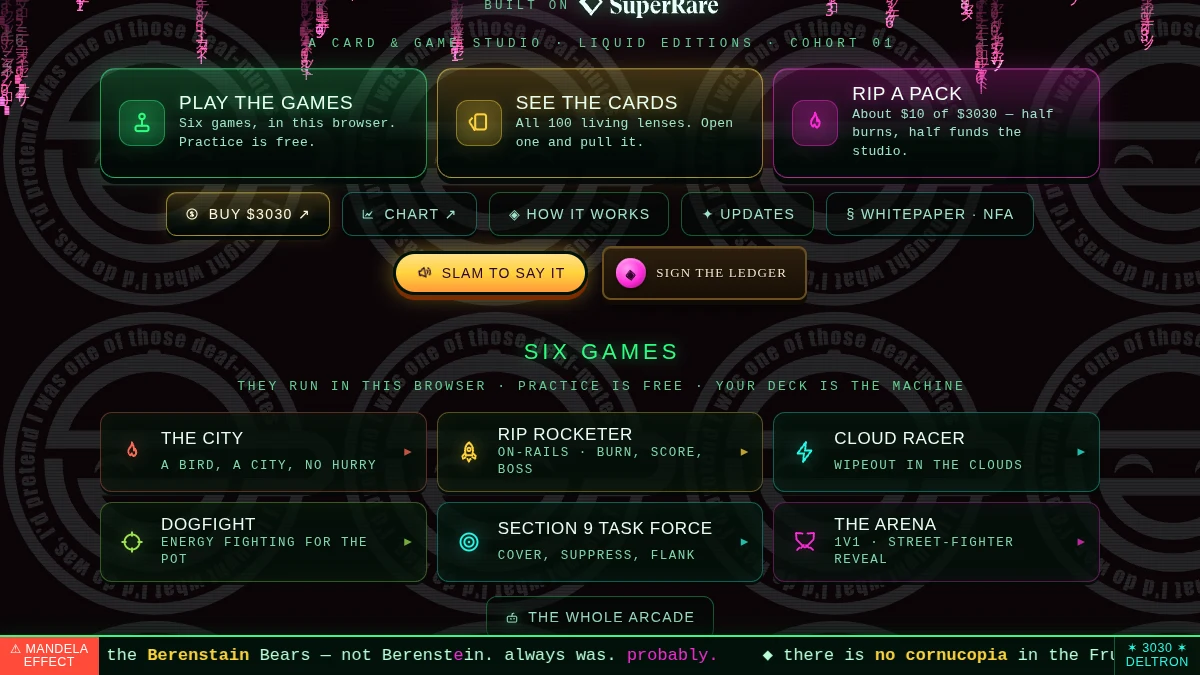
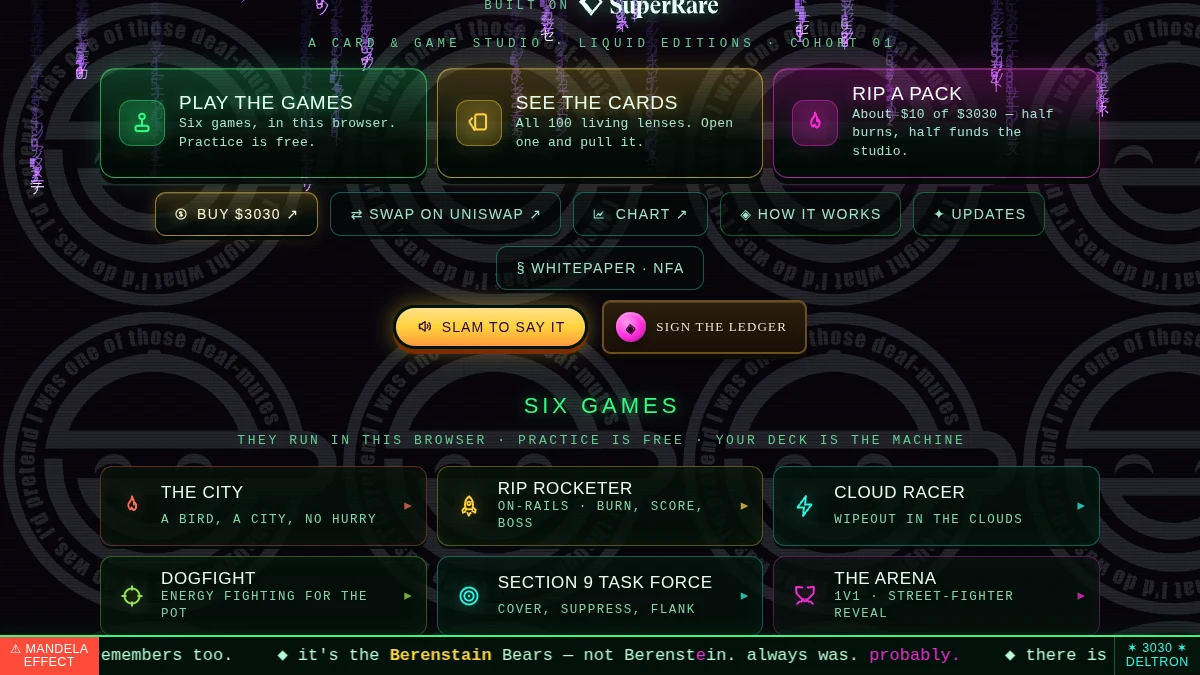
Buy $3030 with ETH — and read which pool can actually fill you
Artist: "we added this liquidity pool … help make this easy to use on
site" / "I created this pool" —
app.uniswap.org/explore/pools/ethereum/0x9a7e4306…192ca7.

The ask is right and the obvious implementation is harmful. Almost
nobody holds RARE, so buying $3030 through the SuperRare curve's
graduated pool is really "buy RARE, then buy $3030" — a step that loses
people, and exactly what an ETH pair fixes. But measured the minute it
was created, the ETH pool held nothing: 0 buys / 2 sells, $5.24 of 24h
volume, -78.7% price, no indexed liquidity at all, against $291,830 and
$60,637 in the RARE pool. A link into the empty one is a worse failure
than no link, because nothing errors — the page works, the swap goes
through, and the collector eats the fill.

So the config declares both markets and does not pick a winner, and the
site reads depth at load. A hard-coded choice would be wrong the day the
ETH pool is funded and nobody would have edited anything to make it
wrong — the same drift that is why this project publishes no burn
percentage anywhere. RipWallet.marketDepth() reads both pools and the
front page prints what it found; when the read fails the line is absent
rather than "unknown", and the buttons above it never depended on it.
Driven both ways: reads "deepest right now: RARE $291,830", and with the
API blocked the line is gone with every control still live.

RipWallet.swapUrl() is built from the TOKEN, never from a pool id, and
[…]

diff --git a/index.html b/index.html
@@ -243,6 +243,9 @@
   /* the wallet control and the artist's shout button share one row instead of stacking two
      full-width blocks between the wordmark and the first thing you can actually do */
   .hrow{ display:flex; flex-wrap:wrap; align-items:center; justify-content:center; gap:10px 14px; margin-top:10px; }
+  /* the live pool-depth line — a reading, so it is quiet type and it is absent unless it read */
+  .mkt-depth{ margin:9px auto 0; max-width:60ch; text-align:center; font-family:var(--mono);
+    font-size:var(--t-fine,12px); letter-spacing:.04em; color:var(--phosdim); }
   /* ⚠ A SHORT VIEWPORT IS A DIFFERENT PROBLEM FROM A NARROW ONE, and the masthead is where the
      two diverge: every row in it is cheap horizontally and expensive vertically, so a phone held
      sideways pays for the whole stack at once. `test:cab` records the same lesson from the other
@@ -879,6 +882,12 @@
            token, not decoration. ⛔ IT REMOVES ITSELF IF NO POOL IS CONFIGURED (see the boot script
            at the foot of this file): a chart button that opens a blank search is the failure
            `theme.js` records as worse than absence. -->
+      <!-- ⚑ SWAP SITS NEXT TO BUY BECAUSE IT IS THE SAME ERRAND IN THE CURRENCY PEOPLE HAVE.
+           BUY goes to SuperRare (the edition's own collect page, still the canonical surface);
+           this goes to Uniswap with $3030 already selected, so someone holding ETH is one screen
+           away instead of three. Both ship `hidden` and are revealed by the boot script only when
+           a token is configured — a swap screen with no token in it is a dead control. -->
+      <a class="btn ghost alt" id="swapLink" href="#" target="_blank" rel="noopener noreferrer" hidden>⇄ Swap on Uniswap ↗</a>
       <a class="btn ghost alt" id="chartLink" href="#" target="_blank" rel="noopener noreferrer" hidden><span class="ic" data-ic="chart"></span> Chart ↗</a>
       <a class="btn ghost" href="#how">◈ How it works</a>
       <!-- ⚑ IN THE SECOND ROW, NOT A FOURTH DOOR. The three doors above are the things a stranger
@@ -888,6 +897,12 @@
       <a class="btn ghost" href="updates.html">✦ Updates</a>
       <a class="btn ghost alt" href="whitepaper.html">§ Whitepaper · NFA</a>
     </div>
+    <!-- ⛔ A FACT AT THE MOMENT OF READING, NOT A FORECAST. There are two $3030 pools — one priced
+         in RARE, one in ETH — and which of them can fill you changes with the liquidity in it. So
+         this line is READ from the pools when the page loads and is absent when the read fails,
+         rather than a sentence someone typed that quietly stops being true. Same rule that keeps
+         a burn percentage off every page on this site. -->
+    <p class="mkt-depth" id="mktDepth" hidden></p>
 
     <!-- ⚠ THE SHOUT BUTTON AND THE WALLET SIT BELOW THE DOORS, NOT ABOVE THEM. They were the two
          rows between the wordmark and the first real action, which made a TOY the first pressable
@@ -1180,7 +1195,7 @@
       <div class="ticker" id="ticker">▓ 100 living lenses + Lovebeing · every burn is permanent · the pack is open ▓</div>
       <div class="credit">song produced by lovebeing &amp; sean, an unhoused friend from the street</div>
       <div class="credit">3030 forever · a bow to <strong>DELTRON 3030</strong> — Dan the Automator × Del the Funky Homosapien × Kid Koala</div>
-      <a href="updates.html">updates</a> · <a href="https://superrare.com">superrare</a> · <a href="https://x.com/RipMaster3030" target="_blank" rel="noopener noreferrer">𝕏 @RipMaster3030</a> · <a id="chartFoot" href="#" target="_blank" rel="noopener noreferrer" hidden>chart</a> · <a href="whitepaper.html">whitepaper</a> · <a href="tokenomics.html">tokenomics</a> · <a href="audit.html">audit</a> · <a href="artist.html">the artist</a> · buy the ticket, take the ride
+      <a href="updates.html">updates</a> · <a href="https://superrare.com">superrare</a> · <a href="https://x.com/RipMaster3030" target="_blank" rel="noopener noreferrer">𝕏 @RipMaster3030</a> · <a id="swapFoot" href="#" target="_blank" rel="noopener noreferrer" hidden>swap</a> · <a id="chartFoot" href="#" target="_blank" rel="noopener noreferrer" hidden>chart</a> · <a href="whitepaper.html">whitepaper</a> · <a href="tokenomics.html">tokenomics</a> · <a href="audit.html">audit</a> · <a href="artist.html">the artist</a> · buy the ticket, take the ride
     </footer>
   </div>
 
@@ -1322,6 +1337,34 @@ a.addEventListener('keydown',function(e){if(e.key==='Enter'||e.key===' '){e.prev
       const el = document.getElementById(id); if (!el) return;
       el.href = chart; el.hidden = false;
     });
+    /* ⛔ THE SWAP ROUTE EXISTS BECAUSE ALMOST NOBODY HOLDS RARE. The edition's graduated pool is
+       priced in RARE, so "buy $3030" through it is really "buy RARE, then buy $3030" — a step
+       that loses people. The artist opened a $3030/ETH pool on 2026-08-07 to end that.
+       ⚑ THE LINK IS BUILT FROM THE TOKEN, NOT FROM A POOL, and that is the safety property: the
+       router chooses the venue, so it cannot fill from a pool with nothing in it. On the day the
+       ETH pool was created it held two sells and $5 of volume against $291,830 in the RARE pool. */
+    const swap = window.RipWallet && window.RipWallet.swapUrl ? window.RipWallet.swapUrl() : '';
+    if (swap) ['swapLink', 'swapFoot'].forEach(id => {
+      const el = document.getElementById(id); if (!el) return;
+      el.href = swap; el.hidden = false;
+    });
+    /* ⚠ AND THE DEPTH LINE IS READ, NEVER PRINTED. Which pair is worth trading changes the moment
+       liquidity moves, and a sentence baked into this page would go stale with nobody editing
+       anything — the same reason no burn percentage is published anywhere on this site. The read
+       is fire-and-forget: the buttons above already exist and work without it, so a blocked fetch
+       costs the page nothing but the extra line. */
+    const line = document.getElementById('mktDepth');
+    if (line && window.RipWallet && window.RipWallet.marketDepth) {
+      window.RipWallet.marketDepth().then(r => {
+        if (!r.live) return;                       // no reading ⇒ say nothing, not "unknown"
+        const usd = n => '$' + Math.round(n).toLocaleString('en-US');
+        const deep = r.pools.filter(p => p.usd > 0);
+        if (!deep.length) return;
+        line.textContent = 'deepest right now: ' + deep.map(p => p.quote + ' ' + usd(p.usd)).join(' · ')
+          + ' — read from the pools just now';
+        line.hidden = false;
+      }).catch(() => {});
+    }
     if (window.RipTavern) RipTavern.mount('#tavern'); })();
 </script>
 <script src="theme.js"></script>

diff --git a/js/wallet.js b/js/wallet.js
@@ -446,10 +446,63 @@
    *   and show nothing. A chart button that goes to a blank DexScreener search is worse than no
    *   chart button — `theme.js` records the rule: a control that goes nowhere is the one failure
    *   worse than absence. */
-  const chartUrl = () => {
+  /* Every configured market, in one place, each carrying the two links that can be built from it
+   * without asking the network anything. ⚠ A malformed id yields NO pool rather than a broken
+   * link — same rule as before: a control that goes nowhere is worse than an absent one. */
+  const markets = () => {
     const m = (CFG().market || {});
-    const id = String(m.poolId || '').trim();
-    return /^0x[0-9a-fA-F]{64}$/.test(id) ? (m.chartHost || '') + id : '';
+    return (m.pools || [])
+      .filter(p => /^0x[0-9a-fA-F]{64}$/.test(String((p || {}).id || '').trim()))
+      .map(p => ({
+        id: String(p.id).trim(),
+        quote: String(p.quote || '').trim() || '?',
+        chart: (m.chartHost || '') + String(p.id).trim(),
+        pool: (m.poolHost || '') + String(p.id).trim(),
+      }));
+  };
+  /* Back-compat: one chart link, the first configured market. Callers that want a specific pair
+   * use markets(). */
+  const chartUrl = () => (markets()[0] || {}).chart || '';
+  /* ⛔ BUILT FROM THE TOKEN, NEVER FROM A POOL ID, and that is a safety property rather than a
+   *   convenience. Uniswap's router picks the venue, so a swap link cannot be aimed at a pool with
+   *   nothing in it — which is exactly the failure mode of the ETH pair on the day it was made.
+   * ⚠ Returns '' when there is no edition configured, so a caller shows nothing rather than
+   *   opening a swap screen with no token in it. */
+  const swapUrl = () => {
+    const m = (CFG().market || {});
+    const t = token();
+    if (!/^0x[0-9a-fA-F]{40}$/.test(String(t || '').trim())) return '';
+    const host = m.swapHost || 'https://app.uniswap.org/swap';
+    return `${host}?chain=ethereum&outputCurrency=${t}`;
+  };
+  /* Read the live depth of every market, so a page can route people to the pool that can actually
+   * fill them instead of to whichever one somebody typed first. ⚠ FAILS OPEN AND SAYS SO: on any
+   * error it returns the configured order untouched with `live:false`, and the caller keeps the
+   * static links. It never blocks a render — nothing here is awaited before a button exists. */
+  const marketDepth = async () => {
+    const m = (CFG().market || {});
+    const list = markets();
+    const api = String(m.depthApi || '').trim();
+    if (!api || !list.length || typeof fetch !== 'function') return { live: false, pools: list };
+    try {
+      const ctl = typeof AbortController === 'function' ? new AbortController() : null;
+      const t = ctl ? setTimeout(() => ctl.abort(), 6000) : null;
+      const r = await fetch(api + list.map(p => p.id).join(','),
+        ctl ? { signal: ctl.signal } : undefined);
+      if (t) clearTimeout(t);
+      if (!r.ok) return { live: false, pools: list };
+      const j = await r.json();
+      const by = new Map((j.pairs || []).map(p => [String(p.pairAddress || '').toLowerCase(), p]));
+      const out = list.map(p => {
+        const d = by.get(p.id.toLowerCase());
+        /* ⚠ liquidity may be ABSENT rather than zero on a pool the indexer has not measured yet,
+         *   and treating absent as 0 is right here: unknown depth is not depth you can trade. */
+        const usd = d && d.liquidity && isFinite(+d.liquidity.usd) ? +d.liquidity.usd : 0;
+        return { ...p, usd, price: d ? +d.priceUsd : null, vol24: d && d.volume ? +d.volume.h24 : null };
+      });
+      out.sort((a, b) => b.usd - a.usd);
+      return { live: true, pools: out };
+    } catch { return { live: false, pools: list }; }
   };
   const explorerAddr = a => `${(CHAINS[wantChainId()] || {}).explorer || 'https://etherscan.io'}/address/${a}`;
   const explorerTx = h => `${(CHAINS[wantChainId()] || {}).explorer || 'https://etherscan.io'}/tx/${h}`;
@@ -474,7 +527,7 @@
     hasWallet: () => !!injected() || !!wcProjectId(),
     hasInjected: () => !!injected(),
     hasWalletConnect: () => !!wcProjectId(),
-    isLive, buyUrl, chartUrl, explorerAddr, explorerTx,
+    isLive, buyUrl, chartUrl, swapUrl, markets, marketDepth, explorerAddr, explorerTx,
     chainName: () => (CHAINS[wantChainId()] || {}).name || ('chain ' + wantChainId()),
     /* ⛔ WHERE THE WALLET ACTUALLY IS, WHICH IS NOT WHAT chainName() ANSWERS. chainName() reports
      *   the CONFIGURED chain, and the ledger printed it under the heading "The house" — i.e. it

diff --git a/js/chain-config.js b/js/chain-config.js
@@ -187,9 +187,37 @@ window.RIPMASTER_CHAIN = {
    * ⚠ ONE DECLARATION. `chart` is BUILT from `poolId` at read time (see RipWallet.chartUrl) rather
    *   than stored beside it, because two copies of a 66-character hex string is two chances to
    *   ship a link to the wrong market and no way to notice. */
+  /* ⛔ TWO POOLS NOW, ONE TOKEN, AND THEY ARE NOT INTERCHANGEABLE (artist, 2026-08-07: "we added
+   *    this liquidity pool"). Both are Uniswap v4 on mainnet and both have baseToken
+   *    0x1D4bcbb5…47A33 — checked, in the same way `rare` and the first pool were, because a buy
+   *    link is a claim about which market is ours:
+   *      RARE  0x7943d0d1…  the SuperRare curve's graduated pool. Depth lives here.
+   *      ETH   0x9a7e4306…  created 2026-08-07 02:37Z. The pair most people can actually use.
+   * ⚑ THE ETH PAIR IS THE RIGHT IDEA AND IS NOT AUTOMATICALLY THE RIGHT LINK. Almost nobody holds
+   *   RARE, so "buy $3030" through the RARE pool means buy RARE first — a step that loses people.
+   *   But at the moment it was created the ETH pool held nothing: two sells, $5.24 of volume, and
+   *   a 78.7% price move, against $291,830 of liquidity and $60,637 of volume in the RARE pool.
+   *   **Sending a collector into the empty one is a worse failure than making them find Uniswap
+   *   themselves**, because the link works, the swap goes through, and the fill is terrible.
+   * ⛔ SO THE SITE READS DEPTH AND DECIDES, RATHER THAN THIS FILE PICKING A WINNER. A hard-coded
+   *   choice is wrong the day the ETH pool is funded and nobody would edit anything to make it
+   *   wrong — the same drift that made this project refuse to publish a burn percentage. Order
+   *   here is only the fallback when the read fails, so the deepest pool as of today leads. */
   market: {
[1 lines of base64/hex data omitted]
+    pools: [
[2 lines of base64/hex data omitted]
+    ],
     chartHost: "https://dexscreener.com/ethereum/",
+    /* read-only, no key, CORS-open — the same shape as the embed's chain reads: it can show
+     * state and it cannot move anything, and the page degrades to static copy when blocked. */
+    depthApi:  "https://api.dexscreener.com/latest/dex/pairs/ethereum/",
+    /* ⚠ THE SWAP LINK IS BUILT FROM THE TOKEN, NOT THE POOL. Uniswap's swap UI routes by currency
+     *   and finds the venue itself, so it cannot be pointed at a specific v4 pool — and that is
+     *   the behaviour we want: the router will not fill from an empty pool. The pool ids above
+     *   are for the CHART, which is a claim about a specific market. */
+    swapHost:  "https://app.uniswap.org/swap",
+    poolHost:  "https://app.uniswap.org/explore/pools/ethereum/",
   },
 
   protocol: {

diff --git a/updates.html b/updates.html
@@ -269,6 +269,25 @@ Press <b>COPY</b> and it is on your clipboard, exactly as printed. The picture u
 screenshot of the page it describes, taken from the live site rather than drawn.</p>
 
 <div class="uplog">
+  <article class="upd" id="buy-with-eth">
+    <div class="upd-head">
+      <time datetime="2026-08-07">Aug 7, 2026</time>
+      <h3>You can buy $3030 with ETH now</h3>
+    </div>
+    <a class="upd-shot" href="index.html">
+      <img src="media/updates/buy-with-eth.webp" width="1200" height="675" loading="lazy"
+           alt="The front page button row: BUY $3030, SWAP ON UNISWAP and CHART, with the live pool-depth line under it."></a>
+    <div class="upd-post">
+      <p class="upd-blurb" data-post="there's a $3030/ETH pool now, so you don't have to buy RARE first. SWAP ON UNISWAP is on the front page, with $3030 already selected. the site reads both pools live and tells you which one has the depth. NFA.
+
+ripmaster3030studios.com">there's a $3030/ETH pool now, so you don't have to buy RARE first. SWAP ON UNISWAP is on the front page, with $3030 already selected. the site reads both pools live and tells you which one has the depth. NFA.<br><br>ripmaster3030studios.com</p>
+      <div class="upd-act">
+        <button type="button" class="upd-copy" data-for="buy-with-eth">COPY</button>
+        <span class="upd-count">234 / 280</span>
+        <a class="upd-go" href="index.html">see it ↗</a>
+      </div>
+    </div>
+  </article>
   <article class="upd" id="x-account">
     <div class="upd-head">
       <time datetime="2026-08-07">Aug 7, 2026</time>

diff --git a/CLAUDE.md b/CLAUDE.md
@@ -679,6 +679,32 @@ back to `www`; curl gave up at fifty hops. Runbook: `docs/DNS-AND-DOMAIN.md` §4
   headless visit is not available. Serving the repo at the deployed commit is byte-equivalent and
   answers the same question; `curl` reaches the real host fine and is what proves the redirect.
 
+## ⛔ THERE ARE TWO $3030 POOLS NOW, AND THE NEW ONE WAS EMPTY — `market.pools[]`
+*Artist, 2026-08-07: "we added this liquidity pool … help make this easy to use on site" ·
+"I created this pool."* A **$3030/ETH** Uniswap v4 pool beside the SuperRare curve's graduated
+**$3030/RARE** one.
+- ⚑ **THE ASK IS RIGHT AND THE OBVIOUS IMPLEMENTATION IS HARMFUL.** Almost nobody holds RARE, so
+  "buy $3030" through the graduated pool is really *buy RARE, then buy $3030* — a step that loses
+  people, and exactly what an ETH pair fixes. ⛔ **But measured the minute it was made, it held
+  nothing**: 0 buys / 2 sells, **$5.24** of 24 h volume, **−78.7%** price, no indexed liquidity at
+  all — against **$291,830** and $60,637 in the RARE pool. **A link into the empty one is a worse
+  failure than no link**, because nothing errors: the page works, the swap goes through, and the
+  collector eats the fill.
+- ⛔ **SO THE SITE READS DEPTH AND DECIDES; THE CONFIG DOES NOT PICK A WINNER.** A hard-coded
+  choice is wrong the day the ETH pool is funded, **and nobody would have edited anything to make
+  it wrong** — the same drift that is the whole reason this project publishes no burn percentage.
+  `RipWallet.marketDepth()` reads both pools at load and the front page prints what it found;
+  when the read fails the line is **absent**, never "unknown". Driven both ways.
+- ⚑ **THE SWAP LINK IS BUILT FROM THE TOKEN, NEVER FROM A POOL ID, AND THAT IS A SAFETY PROPERTY
+  RATHER THAN A CONVENIENCE.** Uniswap's router chooses the venue, so a token-keyed link *cannot*
+  fill from a pool with nothing in it; a pool-keyed one aims a collector at one specific market.
+  `test:name` asserts no pool id ever reaches the swap host.
+- ⚠ **BOTH IDS WERE VERIFIED AGAINST THE TOKEN BEFORE EITHER WAS PUBLISHED** — baseToken
+  `0x1D4bcbb5…47A33` on both, the standard the first pool and `protocol.rare` were held to. **A
+  buy link is a claim about which market is ours.** ⚠ And they are asserted to be DIFFERENT pools:
+  two ids differing by one character in 66 hex digits is a paste error the eye cannot catch, and
+  it would offer a choice between one pool and itself.
+
 ## ✅ THE UPDATES LOG — `updates.json` → `updates.html`, `npm run shots`, `npm run test:updates` (27)
 *Artist, 2026-08-07: "keep an updates and what we shipped log … on the website … make them postable
 blurbs for social … with each one include a screenshot."*
